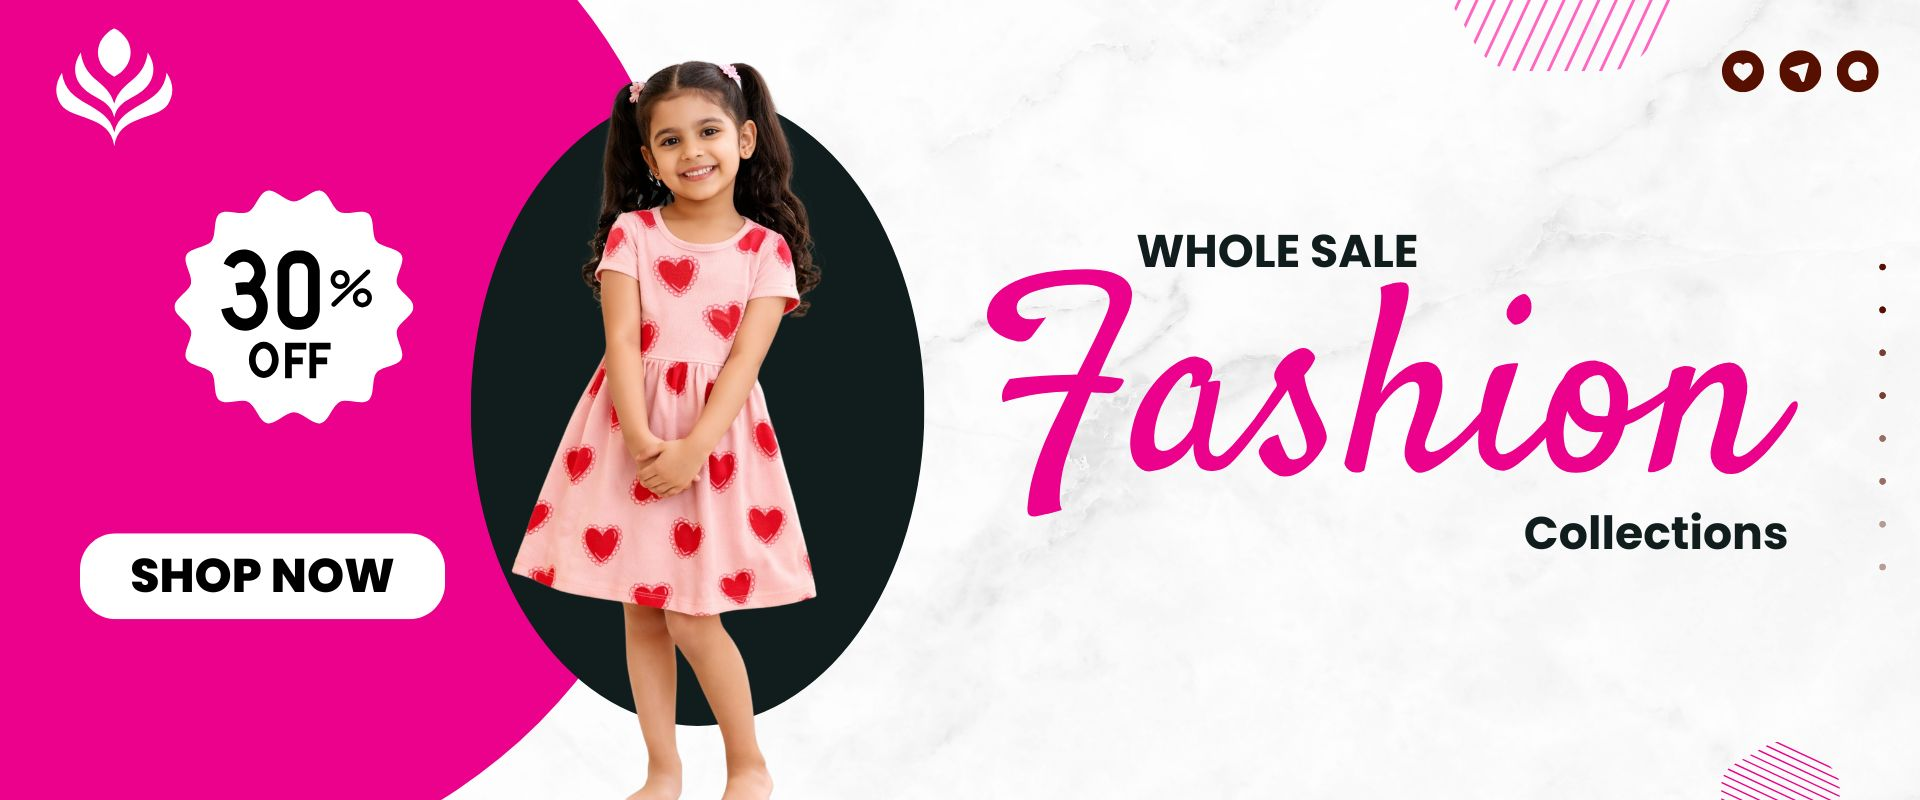
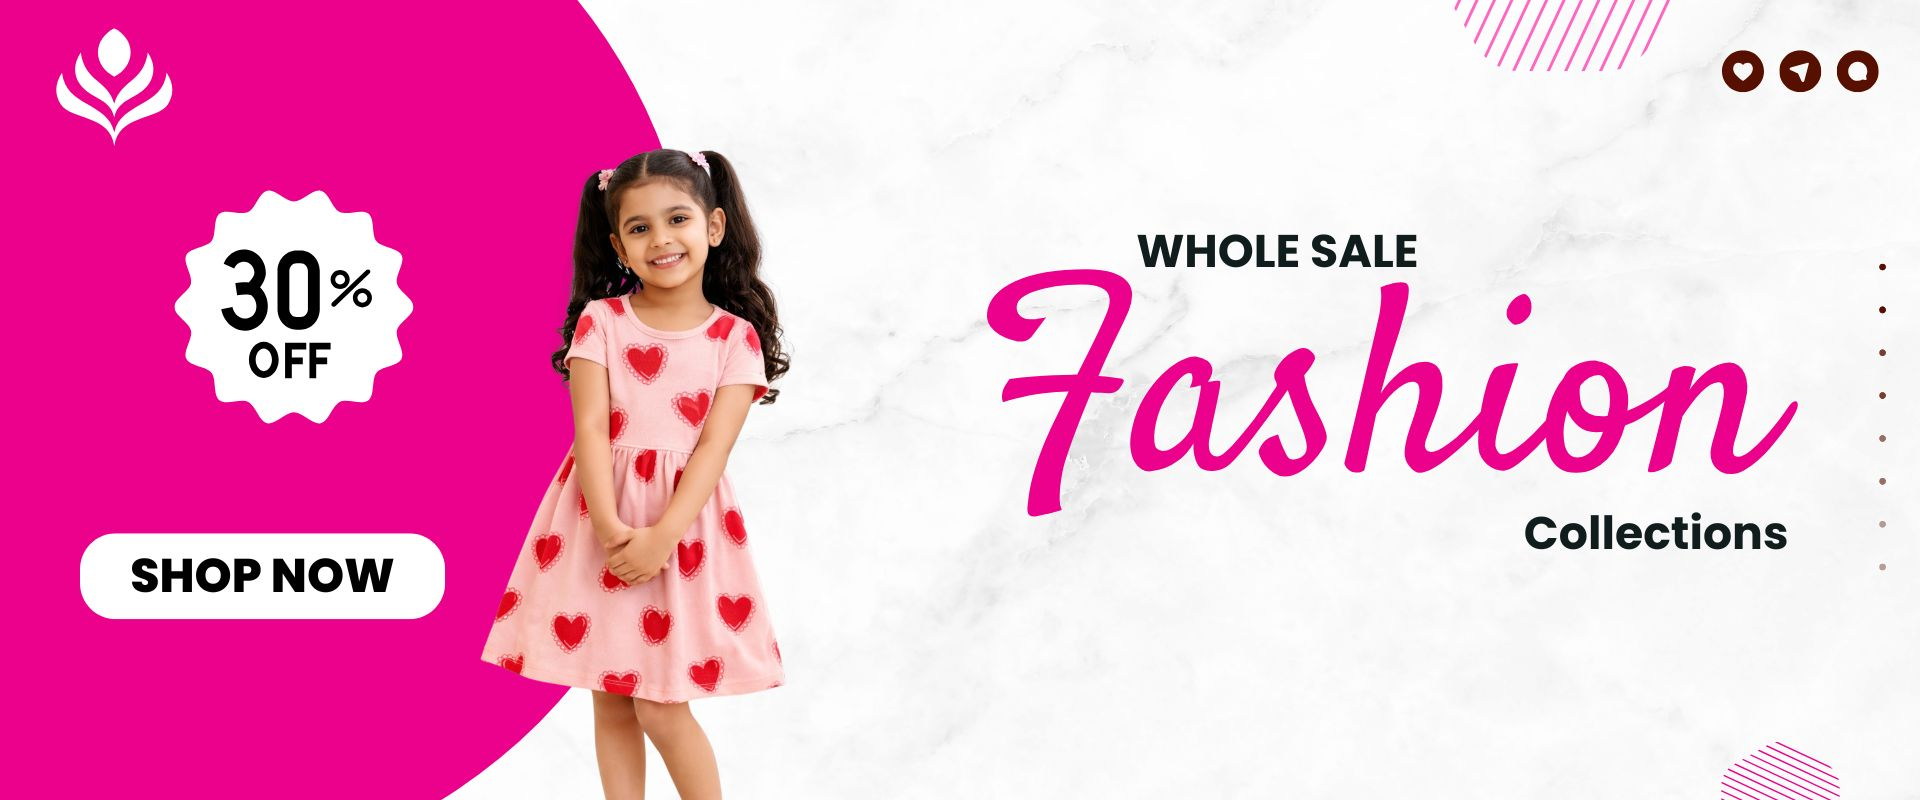
code changes

Changed region(s): [[0.2188, 0.0625, 0.5, 1.0]]

diff --git a/backend/src/services/wholesaleOrderService.ts b/backend/src/services/wholesaleOrderService.ts
@@ -130,7 +130,7 @@ export async function createWholesaleOrder(
 
         // Build verified line items using server-side prices
         serverCalculatedItems = [];
-        const stockUpdates: Array<{ ref: admin.firestore.DocumentReference; newStock: number; newTotal: number }> = [];
+        const stockUpdates: Array<{ ref: admin.firestore.DocumentReference; newStock: number; newReserved: number; newTotal: number }> = [];
 
         for (let i = 0; i < cartItems.length; i++) {
             const cartItem = cartItems[i];
@@ -170,10 +170,12 @@ export async function createWholesaleOrder(
 
             // Prepare stock decrement
             const newStock = product.availableBundles - cartItem.bundlesOrdered;
+            const newReserved = (product.reservedBundles || 0) + cartItem.bundlesOrdered;
             const newTotal = newStock * product.bundleQty;
             stockUpdates.push({
                 ref: snap.ref,
                 newStock,
+                newReserved,
                 newTotal,
             });
         }
@@ -231,7 +233,8 @@ export async function createWholesaleOrder(
             // Metadata
             userId,
             address,
-            stockDeducted: true, // We are decrementing inside this transaction
+            stockDeducted: false, // Wait for payment success to finalize
+            stockReserved: true, // We are reserving it inside this transaction
             idempotencyKey,
             createdAt: new Date(),
             updatedAt: new Date(),
@@ -302,9 +305,10 @@ export async function createWholesaleOrder(
         }
 
         // ── 8. Decrement Stock Atomically ────────────────────────────────────
-        for (const { ref, newStock, newTotal } of stockUpdates) {
+        for (const { ref, newStock, newReserved, newTotal } of stockUpdates) {
             tx.update(ref, {
                 availableBundles: newStock,
+                reservedBundles: newReserved,
                 totalPieces: newTotal,
                 inStock: newStock > 0,
                 updatedAt: admin.firestore.FieldValue.serverTimestamp(),
@@ -377,6 +381,20 @@ export async function updateWholesalePaymentStatus(
                 updatedAt: admin.firestore.FieldValue.serverTimestamp(),
             };
             if (paymentId) updateData.gatewayPaymentId = paymentId;
+
+            if (status === 'paid' && order.stockReserved) {
+                updateData.stockDeducted = true;
+                updateData.stockReserved = false;
+                
+                // Clear reservation on products
+                for (const item of order.items) {
+                    const productRef = collections.wholesaleProducts.doc(item.productId);
+                    transaction.update(productRef, {
+                        reservedBundles: admin.firestore.FieldValue.increment(-item.bundlesOrdered),
+                        updatedAt: admin.firestore.FieldValue.serverTimestamp()
+                    });
+                }
+            }
 
             transaction.update(orderRef, updateData);
 

diff --git a/frontend/src/components/admin/WholesaleProductForm.tsx b/frontend/src/components/admin/WholesaleProductForm.tsx
@@ -29,6 +29,7 @@ export interface WholesaleJobFormData {
     bundleComposition: Record<string, number>;
     bundlePrice: number;
     availableBundles: number;
+    reservedBundles: number;
     colorDescription: string;
     images: string[];
     mixedColors: boolean;
@@ -52,6 +53,7 @@ const INITIAL_FORM: WholesaleJobFormData = {
     bundleComposition: {},
     bundlePrice: 0,
     availableBundles: 0,
+    reservedBundles: 0,
     colorDescription: 'Assorted colors',
     images: [],
     mixedColors: true,
@@ -94,6 +96,7 @@ export default function WholesaleProductForm({
                 bundleComposition: initialData.bundleComposition || {},
                 bundlePrice: initialData.bundlePrice || 0,
                 availableBundles: initialData.availableBundles || 0,
+                reservedBundles: initialData.reservedBundles || 0,
                 colorDescription: initialData.colorDescription || '',
                 images: initialData.images || [],
                 mixedColors: initialData.mixedColors ?? true,
@@ -470,11 +473,19 @@ export default function WholesaleProductForm({
                         min={0}
                         disabled={isLoading}
                     />
-                    {form.availableBundles > 0 && (
-                        <p className="text-sm text-gray-500 mt-1">
-                            Total pieces in stock: {form.availableBundles * form.bundleQty}
-                        </p>
-                    )}
+                    <div className="flex flex-col sm:flex-row sm:items-center sm:justify-between text-sm text-gray-500 mt-2 gap-2">
+                        {form.availableBundles > 0 ? (
+                            <p>Total pieces in stock: {form.availableBundles * form.bundleQty}</p>
+                        ) : (
+                            <p>Out of stock</p>
+                        )}
+                        {form.reservedBundles > 0 && (
+                            <div className="px-3 py-1.5 bg-amber-50 border border-amber-200 text-amber-800 rounded-md font-medium text-xs flex items-center gap-1.5 shadow-sm">
+                                <span className="w-2 h-2 rounded-full bg-amber-500 animate-pulse shadow-[0_0_8px_rgba(245,158,11,0.6)]" />
+                                {form.reservedBundles} bundles currently held in pending checkouts
+                            </div>
+                        )}
+                    </div>
                 </div>
 
                 {/* ── Color Description ────────────────────────────────── */}

diff --git a/backend/src/services/wholesaleStockService.ts b/backend/src/services/wholesaleStockService.ts
@@ -69,9 +69,9 @@ export const restoreBundleStock = async (orderId: string): Promise<void> => {
 
             const orderData = orderDoc.data();
             
-            // Only restore if stock was actually deducted and hasn't been restored yet
-            if (!orderData?.stockDeducted) {
-                logger.info(`Stock for order ${orderId} was not deducted or already restored. Skipping.`);
+            // Only restore if stock was actually deducted or reserved, and hasn't been restored yet
+            if (!orderData?.stockDeducted && !orderData?.stockReserved) {
+                logger.info(`Stock for order ${orderId} was not deducted or reserved, or already restored. Skipping.`);
                 return;
             }
 
@@ -82,9 +82,14 @@ export const restoreBundleStock = async (orderId: string): Promise<void> => {
                 if (productDoc.exists) {
                     const product = productDoc.data() as WholesaleProduct;
                     const newStock = product.availableBundles + item.bundlesOrdered;
+                    
+                    // If it was just reserved (pending), we also clear the reservation
+                    const reservedDecrement = orderData.stockReserved ? item.bundlesOrdered : 0;
+                    const newReserved = Math.max(0, (product.reservedBundles || 0) - reservedDecrement);
 
                     transaction.update(productRef, {
                         availableBundles: newStock,
+                        reservedBundles: newReserved,
                         totalPieces: newStock * product.bundleQty,
                         inStock: true,
                         updatedAt: admin.firestore.FieldValue.serverTimestamp(),
@@ -95,6 +100,7 @@ export const restoreBundleStock = async (orderId: string): Promise<void> => {
             // Mark as restored
             transaction.update(orderRef, {
                 stockDeducted: false,
+                stockReserved: false,
                 updatedAt: admin.firestore.FieldValue.serverTimestamp(),
             });
         });

diff --git a/frontend/src/components/home/ArchedCollections.tsx b/frontend/src/components/home/ArchedCollections.tsx
@@ -12,35 +12,35 @@ const collections = [
     {
         id: 'newborn',
         title: 'Newborn Collection',
-        image: '/shop-by-categories/1.png',
+        image: '/images/more collection to explore/new born.png',
         bg: '#fdf2f8',
         href: '/products?category=newborn',
     },
     {
         id: 'girls',
         title: 'Girls Wear',
-        image: '/shop-by-categories/2.png',
+        image: '/images/more collection to explore/girl.png',
         bg: '#fff1f2',
         href: '/products?category=girls',
     },
     {
         id: 'boys',
         title: 'Boys Wear',
-        image: '/shop-by-categories/3.png',
+        image: '/images/more collection to explore/boy.png',
         bg: '#f0f9ff',
         href: '/products?category=boys',
     },
     {
         id: 'women',
         title: "Women's Apparel",
-        image: '/11.png',
+        image: '/images/more collection to explore/women.png',
         bg: '#faf5ff',
         href: '/products?category=women',
     },
     {
         id: 'mens',
         title: "Men's Apparel",
-        image: '/11.png',
+        image: '/images/more collection to explore/men.png',
         bg: '#f8fafc',
         href: '/products?category=mens',
     },

diff --git a/frontend/src/components/home/CircularCategories.tsx b/frontend/src/components/home/CircularCategories.tsx
@@ -10,31 +10,31 @@ const categories = [
     {
         name: 'Newborn Collection',
         href: '/products?category=newborn',
-        image: '/shop-by-categories/1.png',
+        image: '/images/more collection to explore/new born.png',
         bg: 'bg-pink-50',
     },
     {
         name: 'Girls Wear',
         href: '/products?category=girls',
-        image: '/shop-by-categories/2.png',
+        image: '/images/more collection to explore/girl.png',
         bg: 'bg-rose-50',
     },
     {
         name: 'Boys Wear',
         href: '/products?category=boys',
-        image: '/shop-by-categories/3.png',
+        image: '/images/more collection to explore/boy.png',
         bg: 'bg-sky-50',
     },
     {
         name: "Women's Apparel",
         href: '/products?category=women',
-        image: '/11.png',
+        image: '/images/more collection to explore/women.png',
         bg: 'bg-purple-50',
     },
     {
         name: "Men's Apparel",
         href: '/products?category=mens',
-        image: '/11.png',
+        image: '/images/more collection to explore/men.png',
         bg: 'bg-slate-50',
     },
 ];

diff --git a/shared/types.ts b/shared/types.ts
@@ -83,7 +83,8 @@ export interface WholesaleProduct {
     bundlePrice: number;                         // Total price per bundle
 
     // Stock management
-    availableBundles: number;                    // Complete bundles in stock
+    availableBundles: number;                    // Complete bundles in stock (sellable)
+    reservedBundles?: number;                    // Bundles held in pending checkouts
     totalPieces: number;                         // Auto-calculated: availableBundles * bundleQty
 
     // Product attributes
@@ -169,7 +170,8 @@ export interface WholesaleOrder {
     // Metadata
     userId: string;
     address: Address;
-    stockDeducted: boolean;                      // Idempotency flag
+    stockDeducted: boolean;                      // True when payment succeeds and physical stock drops
+    stockReserved?: boolean;                     // True when order is placed but pending payment
     createdAt: Date;
     updatedAt: Date;
 }

diff --git a/frontend/src/app/admin/wholesale/products/page.tsx b/frontend/src/app/admin/wholesale/products/page.tsx
@@ -166,6 +166,11 @@ export default function AdminProductListPage() {
                                             <div className="text-sm text-text-secondary">
                                                 {product.totalPieces} total pcs
                                             </div>
+                                            {(product.reservedBundles ?? 0) > 0 && (
+                                                <div className="text-xs text-amber-600 font-medium mt-0.5">
+                                                    + {product.reservedBundles} reserved
+                                                </div>
+                                            )}
                                         </div>
                                     </td>
                                     <td className="px-6 py-4">

diff --git a/backend/src/services/wholesaleProductService.ts b/backend/src/services/wholesaleProductService.ts
@@ -81,6 +81,11 @@ export const updateWholesaleProduct = async (
 
     const product = productDoc.data() as WholesaleProduct;
 
+    // Prevent admin form updates from accidentally overwriting live reservations
+    if ('reservedBundles' in updates) {
+        delete updates.reservedBundles;
+    }
+
     // Accounting lock enforcement
     if (product.isLocked && updates.bundlePrice !== undefined) {
         if (updates.bundlePrice !== product.bundlePrice) {
